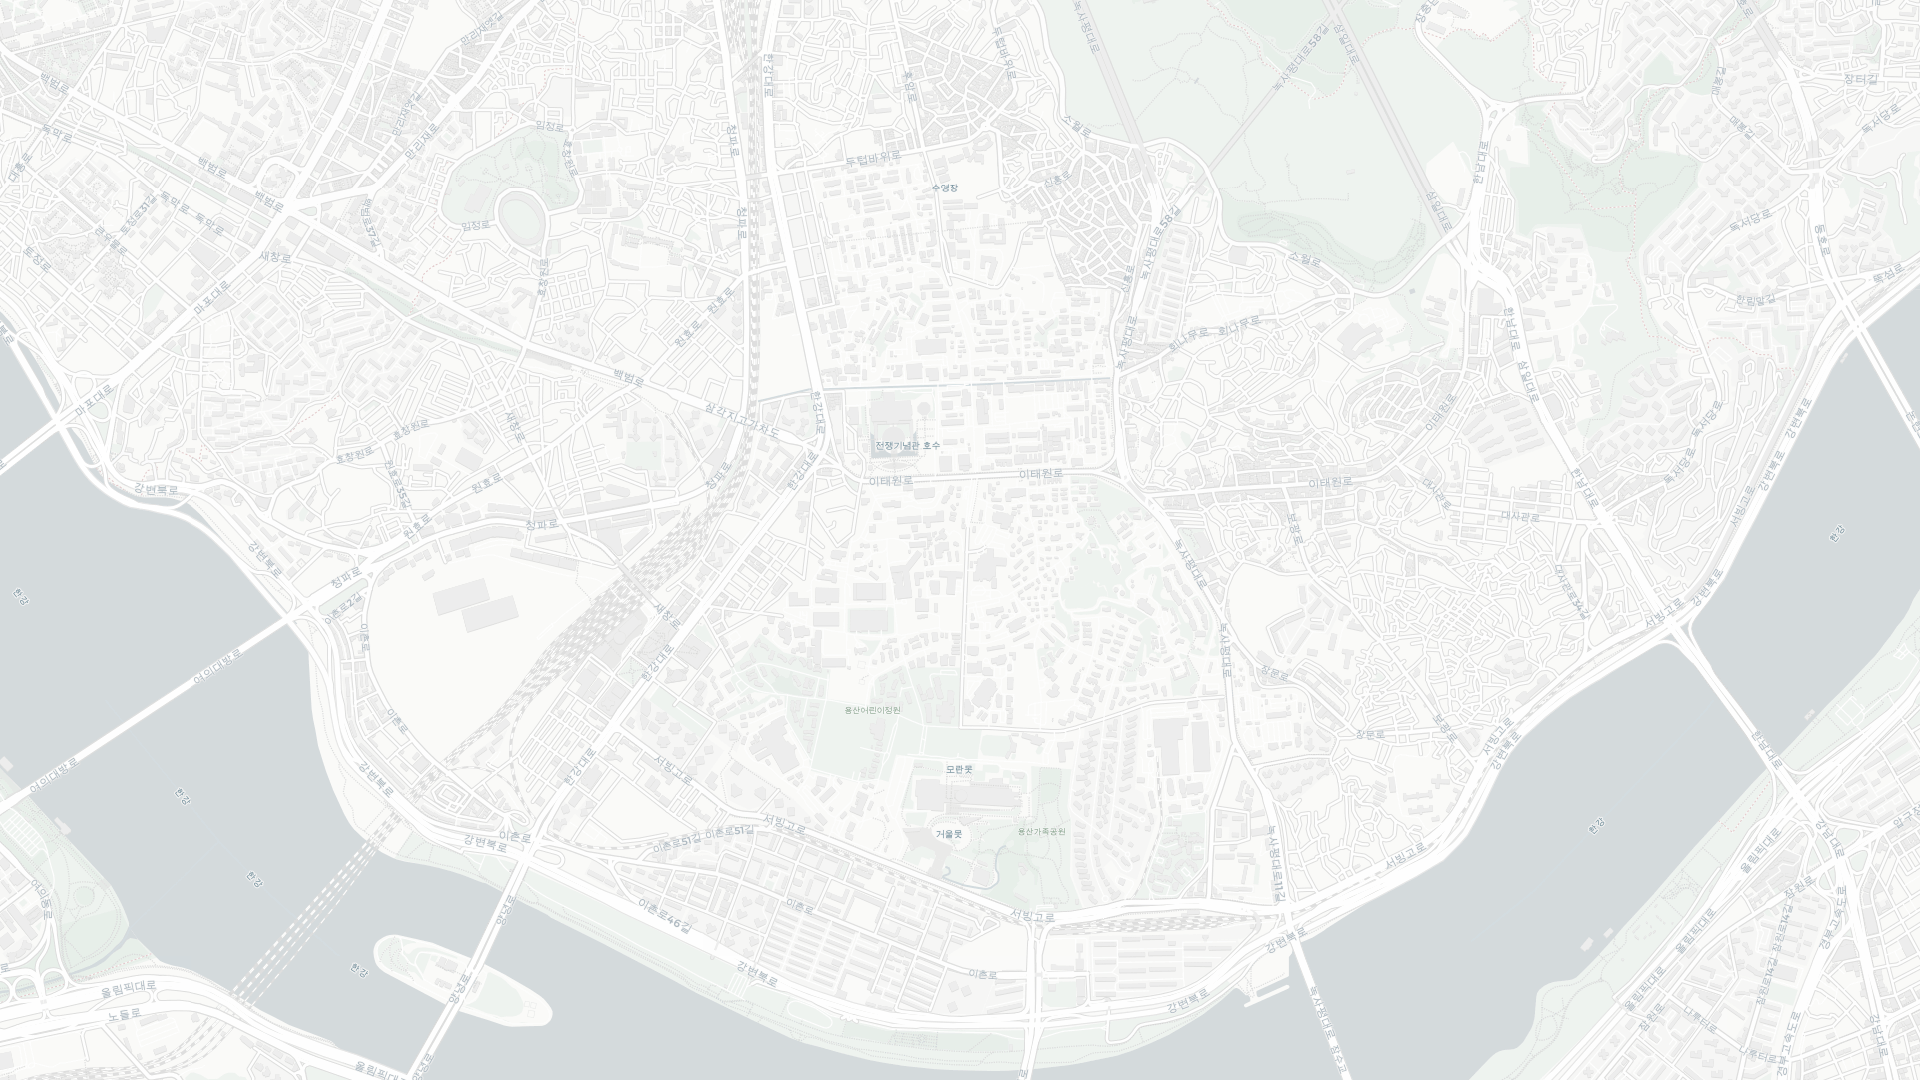
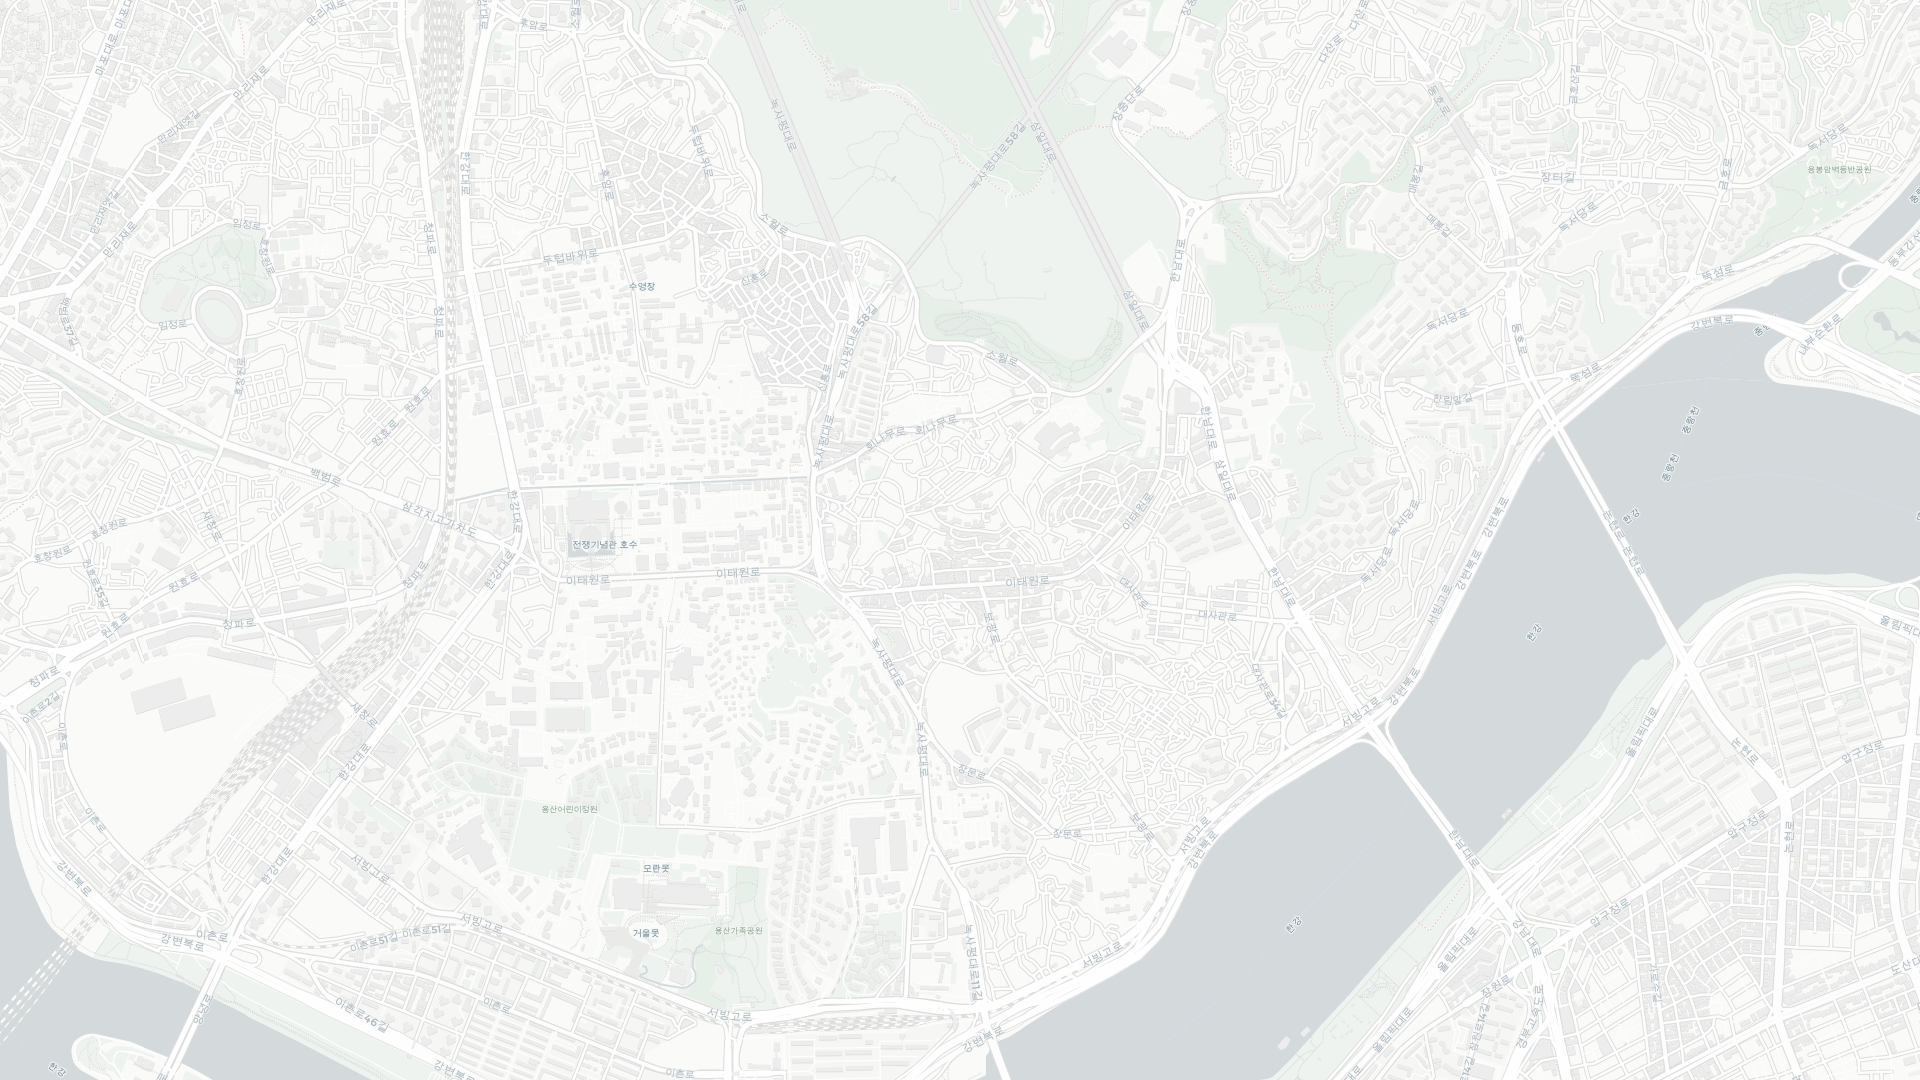
지도 좌표 지오코딩 + BigStatsCard 세로 중앙
1. 지도 좌표를 손으로 찍은 게 오류의 원인이었다
첫 지도에서 용산공원 핀이 1.5km 어긋났다. 지도는 틀리면 바로 티가 나고
한 번 틀리면 그 영상의 다른 숫자까지 의심받는다 — 그래픽 결함이 아니라 신뢰 결함이다.

fetch_map.py --find "주소·지명" 으로 OSM Nominatim 지오코딩을 붙였다.
한국에서 겪은 것 두 가지
- 지번은 동 중심점으로 뭉개진다. "이태원동 22-34" 를 넣으면 필지가 아니라
  이태원동 중심이 나온다 → 근처 랜드마크(역·구청)로 잡는다
- OSM 에 없는 대상은 없는 것이다. "유엔사부지"·"더파크사이드서울" 은 0건.
  그럴 때 폴리곤을 그려 넣지 않는다 — 없는 근거를 그린 것이 되기 때문이다.
  검증된 랜드마크에 핀만 찍고 라벨로 "녹사평역 일대"처럼 범위를 밝힌다

샘플 지도를 전부 검증 좌표로 다시 잡았다 (녹사평역 37.534128,126.988149 ·
용산공원 37.521986,126.989488 · 한남동 37.538220,127.007400 ·
전쟁기념관 37.535972,126.977292). 지어낸 부지 폴리곤은 뺐다.

2. BigStatsCard 세로 중앙
top: 464 로 박혀 있어 아래가 텅 비었다. 가로만 가운데면 "가운데 정렬"이 아니라
"위쪽에 붙은 가운데"다. 타이틀 아래 ~ 자막 안전영역 위 띠의 한가운데로 옮겼다.

Claude-Session: https://claude.ai/code/session_0163BvG2wWGZZ4ytYegGjwJG

diff --git a/youtube_pipeline/motion/src/BigStatsCard.jsx b/youtube_pipeline/motion/src/BigStatsCard.jsx
@@ -1,7 +1,7 @@
 import React from 'react';
 import {AbsoluteFill, interpolate, useCurrentFrame} from 'remotion';
 import {useA2ZFonts} from './Fonts';
-import {themeOf, PaperBg, PaperTitle, PaperSource, NumberIn, YELLOW, fadeIn} from './paper';
+import {themeOf, PaperBg, PaperTitle, PaperSource, NumberIn, YELLOW, CONTENT_BOTTOM, fadeIn} from './paper';
 
 // 큰 수치만 남긴 카드 — 도형을 걷어내고 숫자 2~3개로 끝낸다.
 // 격자·막대가 오히려 지저분해지는 구간에서 쓴다.
@@ -18,13 +18,22 @@ export const BigStatsCard = ({title = '', sub = '', items = [], source = '', cap
   const slot = Math.min(720, 1680 / n);
   const startX = (1920 - slot * n) / 2;
 
+  // 세로도 가운데로 맞춘다. 예전엔 top 을 464 로 박아 놔서 **아래가 텅 비었다** —
+  // 가로만 가운데면 "가운데 정렬"이 아니라 "위쪽에 붙은 가운데"다.
+  // 쓸 수 있는 띠는 [타이틀 아래 ~ 자막 안전영역 위] 이고, 그 한가운데에 블록을 놓는다.
+  const bandTop = title ? (sub ? 300 : 246) : 150;
+  const hasSub = items.some((it) => it.sub);
+  const blockH = 148 + 26 + 56 + (hasSub ? 44 : 0);      // 수치 + 라벨 (+ 보조줄)
+  const TOPY = Math.round(bandTop + Math.max(0, (CONTENT_BOTTOM - bandTop - blockH) / 2));
+
   return (
     <AbsoluteFill style={{fontFamily: 'A2Z Regular, sans-serif'}}>
       <PaperBg theme={theme} {...bg} />
       <PaperTitle title={title} sub={sub} theme={theme} align={align} />
       <svg width={1920} height={1080} style={{position: 'absolute', top: 0, left: 0}}>
         {items.slice(1).map((_, i) => (
-          <line key={i} x1={startX + slot * (i + 1)} y1={452} x2={startX + slot * (i + 1)} y2={712}
+          <line key={i} x1={startX + slot * (i + 1)} y1={TOPY - 12}
+                x2={startX + slot * (i + 1)} y2={TOPY + blockH + 4}
                 stroke={T.ink} strokeWidth={2} opacity={0.22 * fadeIn(frame, 10)} />
         ))}
       </svg>
@@ -32,7 +41,7 @@ export const BigStatsCard = ({title = '', sub = '', items = [], source = '', cap
         const v = interpolate(frame, [14 + i * 12, 62 + i * 12], [0, it.value ?? 0],
                               {extrapolateLeft: 'clamp', extrapolateRight: 'clamp'});
         return (
-          <div key={i} style={{position: 'absolute', left: startX + i * slot, width: slot, top: 464,
+          <div key={i} style={{position: 'absolute', left: startX + i * slot, width: slot, top: TOPY,
                                textAlign: 'center', opacity: fadeIn(frame, 8 + i * 12)}}>
             {/* 강조 수치만 밑줄까지 그어 "확정"시킨다 — §27 */}
             <div style={{lineHeight: 1}}>

diff --git a/youtube_pipeline/scripts/fetch_map.py b/youtube_pipeline/scripts/fetch_map.py
@@ -37,7 +37,25 @@ STYLES = {
     'osm':   ('https://tile.openstreetmap.org/{z}/{x}/{y}.png',
               '© OpenStreetMap contributors'),
 }
-MAX_TILES = 48          # 타일 서버 예의. 이걸 넘기면 줌을 낮추라고 말한다
+MAX_TILES = 64          # 타일 서버 예의. 이걸 넘기면 줌을 낮추라고 말한다
+NOMINATIM = 'https://nominatim.openstreetmap.org/search'
+
+
+def find(query, limit=3):
+    """주소·지명 → 좌표 (OSM Nominatim).
+
+    **좌표를 손으로 찍지 말 것.** 샘플 1회차에서 눈대중으로 넣었다가
+    용산공원 핀이 1.5km 어긋났다. 지도는 틀리면 바로 티가 나고,
+    한 번 틀리면 그 영상의 다른 숫자까지 의심받는다.
+
+    한국 지번(예: "이태원동 22-34")은 Nominatim 이 **동 중심점으로 뭉갠다.**
+    필지 단위가 필요하면 근처 랜드마크(역·구청·학교)로 잡는 게 정확하다.
+    """
+    import urllib.parse
+    u = NOMINATIM + '?' + urllib.parse.urlencode({
+        'q': query, 'format': 'json', 'limit': str(limit)})
+    req = urllib.request.Request(u, headers={'User-Agent': UA})
+    return json.loads(urllib.request.urlopen(req, timeout=30).read())
 
 
 def deg2px(lat, lon, z):
@@ -113,12 +131,35 @@ def main():
     ap = argparse.ArgumentParser()
     ap.add_argument('project')
     ap.add_argument('--name', required=True, help='파일명 (확장자 없이)')
-    ap.add_argument('--center', nargs=2, type=float, required=True, metavar=('LAT', 'LON'))
+    ap.add_argument('--center', nargs=2, type=float, metavar=('LAT', 'LON'))
     ap.add_argument('--zoom', type=int, default=15,
                     help='13=도시권 · 15=동네 · 17=블록 (기본 15)')
     ap.add_argument('--size', nargs=2, type=int, default=[1920, 1080], metavar=('W', 'H'))
     ap.add_argument('--style', choices=list(STYLES), default='light')
+    ap.add_argument('--find', action='append', default=[],
+                    help='주소·지명으로 좌표를 찾아 출력만 한다 (여러 번). 지도는 안 받는다')
     a = ap.parse_args()
+
+    if not a.find and not a.center:
+        sys.exit('--center 또는 --find 중 하나는 줘야 한다.')
+
+    if a.find:
+        print('좌표 (OSM Nominatim · ODbL)\n')
+        for q in a.find:
+            try:
+                rs = find(q)
+            except Exception as e:
+                print(f'  {q:28s} 실패: {e}'); continue
+            if not rs:
+                print(f'  {q:28s} **못 찾음** — 다른 이름으로 시도할 것'); continue
+            r = rs[0]
+            print(f"  {q:28s} {float(r['lat']):.6f}, {float(r['lon']):.6f}")
+            print(f"  {'':28s} └ {r.get('display_name','')[:70]}")
+            time.sleep(1.1)                      # Nominatim 은 초당 1회
+        print('\n주의: 한국 지번은 동 중심점으로 뭉개진다. 필지가 필요하면')
+        print('      근처 랜드마크(역·구청·학교)로 잡을 것.')
+        return
+
     fetch(a.project, a.name, a.center[0], a.center[1], a.zoom, a.size[0], a.size[1], a.style)
 
 

diff --git a/youtube_pipeline/design_reference.md b/youtube_pipeline/design_reference.md
@@ -2163,3 +2163,25 @@ B1M 은 나가는 컷과 들어오는 컷이 **같은 방향으로 흐른다.**
 
 첫 렌더에서 띠 라벨이 치수선 라벨 위에 얹혔다 → 띠 라벨은 왼쪽에 붙이고,
 `DimLine` 은 오른쪽 끝에서 라벨을 안쪽으로 뒤집게 고쳤다.
+
+### 34-4. 지도 좌표는 손으로 찍지 않는다
+
+첫 지도에서 **용산공원 핀이 1.5km 어긋났다.** 내가 좌표를 눈대중으로 넣어서다.
+지도는 틀리면 바로 티가 나고, 한 번 틀리면 **그 영상의 다른 숫자까지 의심받는다.**
+부동산 채널에서 이건 그래픽 결함이 아니라 신뢰 결함이다.
+
+`fetch_map.py --find "주소·지명"` 으로 OSM Nominatim 지오코딩을 붙였다.
+이제 좌표는 전부 여기서 나온다.
+
+**한국에서 주의할 것 두 가지** (실제로 겪음):
+1. **지번은 동 중심점으로 뭉개진다.** "이태원동 22-34" 를 넣으면 필지가 아니라
+   이태원동 중심이 나온다. 필지가 필요하면 **근처 랜드마크**(역·구청·학교)로 잡는다
+2. **OSM 에 없는 대상은 없는 것이다.** "유엔사부지" · "더파크사이드서울" 은 0건이다.
+   그럴 때 **폴리곤을 그려 넣지 않는다** — 없는 근거를 그린 것이 되기 때문이다.
+   검증된 랜드마크에 핀만 찍고, 라벨로 "녹사평역 일대"처럼 범위를 밝힌다
+
+### 34-5. `BigStatsCard` 세로 중앙
+
+`top: 464` 로 박혀 있어 아래가 텅 비었다. 가로만 가운데면 "가운데 정렬"이 아니라
+"위쪽에 붙은 가운데"다. 쓸 수 있는 띠(타이틀 아래 ~ 자막 안전영역 위)의
+한가운데에 블록을 놓도록 고쳤다.

diff --git a/youtube_pipeline/SYSTEM.md b/youtube_pipeline/SYSTEM.md
@@ -17,7 +17,9 @@ python3 youtube_pipeline/scripts/plan_from_script.py 스크립트.md --project $
 # 2-a. 소재 수집 — 반드시 컨택트시트를 눈으로 보고 채택한다
 python3 youtube_pipeline/scripts/suggest_queries.py $P            # 장면별 영어 검색어 제안
 python3 youtube_pipeline/scripts/suggest_queries.py $P --collect  # 제안대로 바로 수집
-#     지도는 좌표만 주면 된다. 찍히는 bounds 를 MapCard 에 그대로 붙인다
+#     지도 — **좌표는 반드시 --find 로 찾는다. 손으로 찍지 말 것 (§34-4)**
+python3 youtube_pipeline/scripts/fetch_map.py $P --name x --find "녹사평역" --find "용산공원"
+#     찍히는 bounds 를 MapCard 에 그대로 붙인다
 python3 youtube_pipeline/scripts/fetch_map.py $P --name yongsan \
     --center 37.5326 126.9800 --zoom 15 --style light
 python3 youtube_pipeline/scripts/fetch_sources.py $P --q "검색어" --video "검색어" --limit 6

diff --git a/youtube_pipeline/motion/public/_샘플/CREDITS.md b/youtube_pipeline/motion/public/_샘플/CREDITS.md
@@ -6,3 +6,4 @@
 | `rosewood.png` | Rosewood hotel resorts logo.jpg (commons) | Rosewood Hotels &amp; Resorts, **Public domain** | `Rosewood Hotels &amp; Resorts / Public domain` |
 | `yongsan.png` | 지도 타일 z15 (light) | © OpenStreetMap contributors © CARTO, **ODbL** | `© OpenStreetMap contributors © CARTO` |
 | `excavation.mp4` | mixkit 49188 (mixkit) | Mixkit, **Mixkit Free License** | `Mixkit` |
+| `yongsan.png` | 지도 타일 z15 (light) | © OpenStreetMap contributors © CARTO, **ODbL** | `© OpenStreetMap contributors © CARTO` |
